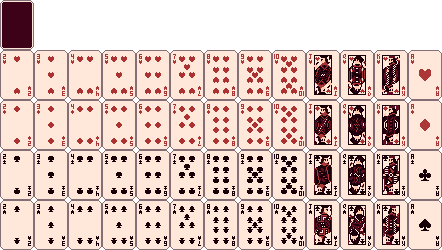
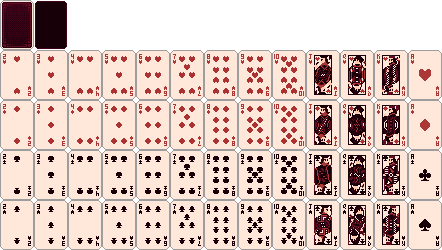
separate asset loading logic

Changed region(s): [[0.0, 0.0, 1.0, 1.0]]

diff --git a/src/card.js b/src/card.js
@@ -4,39 +4,35 @@ class CardSystem {
     this.cols = 7;
     this.rows = 8;
     this.group = new Group();
+    this.group.addAnis(...AssetLoader.spritesheets.card);
     this.spriteToCard = {};
     this.groupToStack = {};
     this.strictStacking = false;
     this.pool = createCardPool();
-  }
-
-  async init() {
-    const atlas = await loadXML("./assets/cardsheet_atlas.xml");
-    const spritesheet = await loadImage("./assets/cardsheet.png");
-    this.group.addAnis(spritesheet, parseTextureAtlas(atlas));
+    this.pad = 5;
+    this.pl = this.pad + CARD_HW;
+    this.pt = this.pad + CARD_HH;
+    this.pokerHand = new PokerHand(this);
   }
 
   getRandomCardFromPool() {
     return popRandomElement(this.pool)[0];
   }
 
+  mapStack(i) {
+    return floor(
+      map(i, 0, this.cols - 1, BOUNDS.nw.x + this.pl, BOUNDS.se.x - this.pl),
+    );
+  }
+
   layTableau() {
     const layout = [1, 2, 3, 4, 5, 6, 7];
-    const pad = 5;
-    const pl = pad + CARD_HW;
-    const pt = pad + CARD_HH;
-
-    const stackPos = (i) => {
-      return floor(
-        map(i, 0, this.cols - 1, BOUNDS.nw.x + pl, BOUNDS.se.x - pl),
-      );
-    };
 
     for (let i = 0; i < layout.length; i++) {
       const cascade = new Cascade(
         this,
-        stackPos(i),
-        BOUNDS.nw.y + pt + CARD_H + pad,
+        this.mapStack(i),
+        BOUNDS.nw.y + this.pt + CARD_H + this.pad,
       );
       for (let j = 0; j < layout[i]; j++) {
         if (!this.pool.length) return;
@@ -45,9 +41,9 @@ class CardSystem {
       }
     }
 
-    let stockPos = { x: stackPos(0), y: BOUNDS.nw.y + pt };
+    let stockPos = { x: this.mapStack(0), y: BOUNDS.nw.y + this.pt };
     const stock = new Stock(this, stockPos.x, stockPos.y, {
-      x: stackPos(1),
+      x: this.mapStack(1),
       y: stockPos.y,
     });
     stock.autoFlip = false;
@@ -56,7 +52,7 @@ class CardSystem {
     while (this.pool.length) {
       stock
         .newCard()
-        .fsm.change("init", 0.5 + i / 40, { x: stackPos(1), y: stock.y });
+        .fsm.change("init", 0.5 + i / 40, { x: this.mapStack(1), y: stock.y });
       i++;
     }
   }
@@ -68,7 +64,7 @@ class CardSystem {
 
   update() {
     for (const sprite of this.group) {
-      cardSystem.getWrapper(sprite).update();
+      cardSystem.getWrapper(sprite)?.update();
     }
   }
 }

diff --git a/src/asset_loader.js b/src/asset_loader.js
@@ -1,0 +1,42 @@
+// class AssetLoader {
+//   constructor() {
+//     this.images = {};
+//     this.spritesheets = {};
+//     this.baseUrl
+//   }
+//
+//   prefix(filename) {
+//     return "./assets/" + filename;
+//   }
+//
+//   static async loadImage(id, filename) {
+//     this.images[id] = loadImage(url);
+//   }
+//
+//   static async loadSpritesheet(id, imgName, xmlName) {
+//     const img = loadImage(imgUrl);
+//     const atlas = loadXML(xmlUrl);
+//     this.spritesheets[id] = [img, atlas];
+//   }
+// }
+
+const AssetLoader = {
+  images: {},
+  spritesheets: {},
+  baseUrl: "./assets/",
+
+  prefix: function (filename) {
+    return this.baseUrl + filename;
+  },
+
+  loadImage: async function (id, filename) {
+    const url = this.prefix(filename);
+    this.images[id] = await loadImage(url);
+  },
+
+  loadSpritesheet: async function (id, imgName, xmlName) {
+    const img = await loadImage(this.prefix(imgName));
+    const xml = await loadXML(this.prefix(xmlName));
+    this.spritesheets[id] = [img, parseTextureAtlas(xml)];
+  },
+};

diff --git a/src/stack.js b/src/stack.js
@@ -81,7 +81,7 @@ class Stack {
 class Cascade extends Stack {
   constructor(system, x, y) {
     super(system, x, y);
-    this.type ="cascade"
+    this.type = "cascade";
     this.system.groupToStack[this.group.idNum] = this;
     this.gap = 14;
     this.backGap = 3;
@@ -110,9 +110,10 @@ class Cascade extends Stack {
 class Stock extends Stack {
   constructor(system, x, y, drawnPos) {
     super(system, x, y);
-    this.type ="stock"
+    this.type = "stock";
     this.drawnPos = drawnPos;
     this.drawnSize = 0;
+    this.redealButton = new Button();
   }
 
   newCard() {
@@ -127,6 +128,10 @@ class Stock extends Stack {
     return this.drawnPos;
   }
 
+  isLegalPush() {
+    return false;
+  }
+
   popTo(card) {
     this.drawnSize -= super.popTo(card).length;
   }
@@ -138,8 +143,6 @@ class Stock extends Stack {
     this.drawnSize++;
     this.updateCardLayers();
   }
-  
-  isLegalPush() {
-    return false;
-  }
+
+  redeal() {}
 }

diff --git a/src/main.js b/src/main.js
@@ -1,10 +1,10 @@
-let test1;
-let test2;
-let testGroup;
-
 async function setup() {
   await Canvas(350, 250);
   displayMode("center", "pixelated", 2);
+
+  await AssetLoader.loadImage("bg", "background.png");
+  await AssetLoader.loadImage("borders", "borders.png");
+  await AssetLoader.loadSpritesheet("card", "cardsheet.png", "cardsheet.xml");
 
   allSprites.pixelPerfect = true;
   allSprites.physics = NONE;
@@ -15,7 +15,6 @@ async function setup() {
   drawBorders();
 
   new CardSystem();
-  await cardSystem.init();
   cardSystem.layTableau();
 }
 
@@ -24,13 +23,13 @@ function update() {
 }
 
 function drawFrame() {
-  background("#180009");
+  background(AssetLoader.images.bg);
   allSprites.draw();
 }
 
 function drawBorders() {
-  const borders = new Sprite();
-  borders.image = "./assets/borders.png";
+  const borders = new Sprite(AssetLoader.images.borders);
+  borders.layer = -1;
 }
 
 function gameUpdate() {

diff --git a/src/poker_hand.js b/src/poker_hand.js
@@ -1,0 +1,21 @@
+class PokerHand {
+  constructor(system) {
+    this.system = system;
+    this.slots = this.createSlots(5);
+  }
+
+  createSlot() {
+    new this.system.group.Sprite("blank");
+  }
+
+  createSlots(num) {
+    const slots = [];
+    for (let i = 0; i < num; i++) {
+      const x = this.system.mapStack(i + 2);
+      const y = BOUNDS.nw.y + this.system.pt;
+      const slot = new this.system.group.Sprite("blank", x, y);
+      slot.layer = 0;
+      slots.push(slot);
+    }
+  }
+}

diff --git a/index.html b/index.html
@@ -24,6 +24,9 @@
 		<script src="src/globals.js"></script>
 		<script src="src/helper.js"></script>
 		<script src="src/state.js"></script>
+		<script src="src/button.js"></script>
+		<script src="src/asset_loader.js"></script>
+		<script src="src/poker_hand.js"></script>
 		<script src="src/card_states.js"></script>
 		<script src="src/stack.js"></script>
 		<script src="src/card.js"></script>

diff --git a/src/button.js b/src/button.js
@@ -1,0 +1,5 @@
+class Button {
+  constructor() {
+    // this.sprite = new Sprite();
+  }
+}
